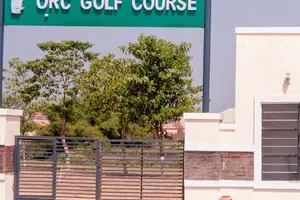
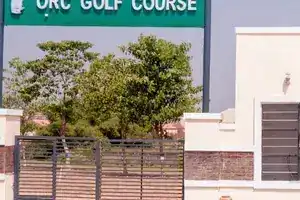
updated

diff --git a/chamber/styles/discover.css b/chamber/styles/discover.css
@@ -54,6 +54,7 @@
     "card-six"
     "card-seven"
     "card-eight";
+  min-height: 168rem;
 }
 
 .discover-card:nth-child(1) { grid-area: featured; }
@@ -135,6 +136,7 @@
       "card-four card-four"
       "card-five card-six"
       "card-seven card-eight";
+    min-height: 90rem;
   }
 
   /* Reserve two title lines so images line up across a row even when one title wraps. */
@@ -187,6 +189,7 @@
       "featured featured card-two"
       "card-three card-four card-five"
       "card-six card-seven card-eight";
+    min-height: 52rem;
   }
 
   /* Reset the medium featured layout for card 4; only card 1 stays featured here. */

diff --git a/chamber/discover.html b/chamber/discover.html
@@ -55,7 +55,7 @@
   <body>
     <header class="site-header">
       <div class="branding">
-        <img src="./favicon/favicon-32x32.png" alt="" width="36" height="36">
+        <img src="./favicon/favicon-32x32.png" alt="" width="32" height="32">
         <span>Ogbomoso Chamber of Commerce</span>
       </div>
 
